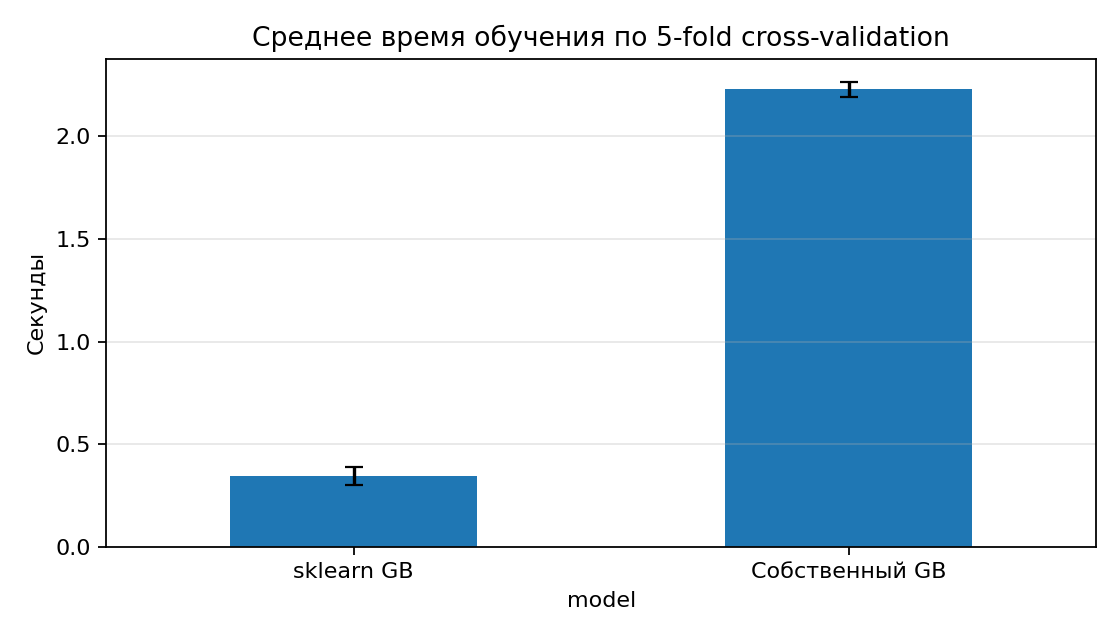
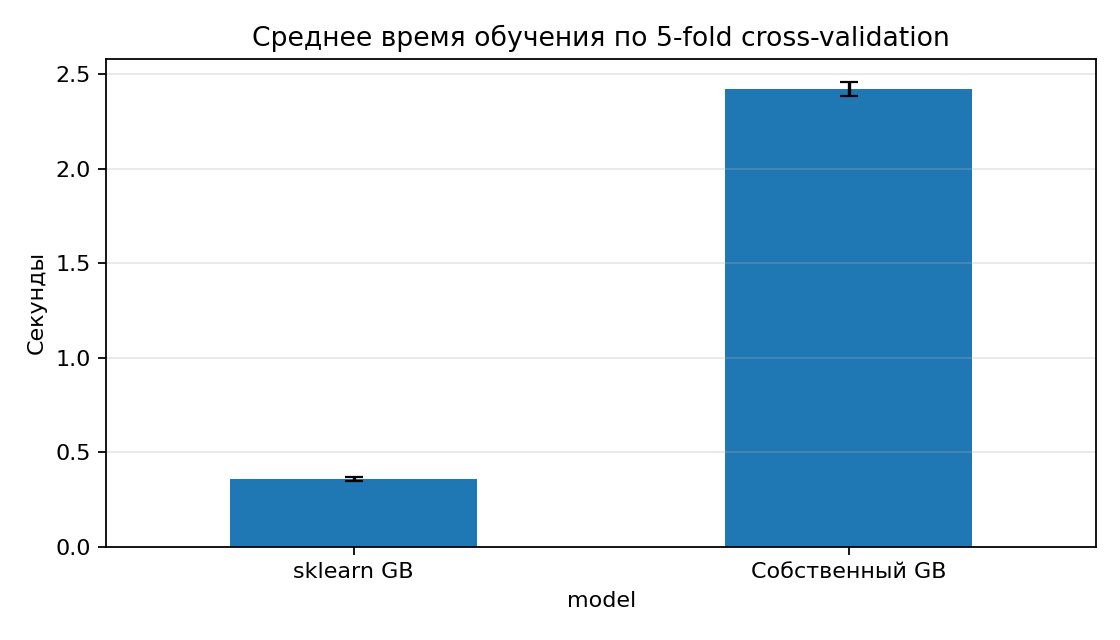
Updated lab3

diff --git a/students/grechukha-gv/lab3/source/main.py b/students/grechukha-gv/lab3/source/main.py
@@ -193,6 +193,71 @@ def plot_feature_importance(model: GradientBoostingBinaryClassifier, feature_nam
     plt.close()
 
 
+def format_metric(value: float, std: float | None = None) -> str:
+    if std is None:
+        return f"{value:.4f}"
+    return f"{value:.4f} ± {std:.4f}"
+
+
+def format_time(value: float, std: float | None = None) -> str:
+    if std is None:
+        return f"{value:.3f}"
+    return f"{value:.3f} ± {std:.3f}"
+
+
+def build_cv_summary_table(cv_summary: pd.DataFrame) -> pd.DataFrame:
+    rows: list[dict[str, str]] = []
+    for model_name in ("Собственный GB", "sklearn GB"):
+        row = cv_summary.loc[model_name]
+        rows.append(
+            {
+                "Модель": model_name,
+                "Accuracy": format_metric(row[("accuracy", "mean")], row[("accuracy", "std")]),
+                "Precision": format_metric(row[("precision", "mean")], row[("precision", "std")]),
+                "Recall": format_metric(row[("recall", "mean")], row[("recall", "std")]),
+                "F1": format_metric(row[("f1", "mean")], row[("f1", "std")]),
+                "Fit time, sec": format_time(row[("fit_time_sec", "mean")], row[("fit_time_sec", "std")]),
+            }
+        )
+    return pd.DataFrame(rows)
+
+
+def build_holdout_table(fitted_models: dict[str, dict]) -> pd.DataFrame:
+    rows: list[dict[str, str]] = []
+    for model_name in ("Собственный GB", "sklearn GB"):
+        result = fitted_models[model_name]
+        metrics = result["metrics"]
+        rows.append(
+            {
+                "Модель": model_name,
+                "Accuracy": format_metric(metrics["accuracy"]),
+                "Precision": format_metric(metrics["precision"]),
+                "Recall": format_metric(metrics["recall"]),
+                "F1": format_metric(metrics["f1"]),
+                "Fit time, sec": format_time(result["fit_time_sec"]),
+            }
+        )
+    return pd.DataFrame(rows)
+
+
+def print_console_summary(
+    x: pd.DataFrame,
+    y: np.ndarray,
+    cv_summary: pd.DataFrame,
+    fitted_models: dict[str, dict],
+) -> None:
+    print("Сводка запуска lab3")
+    print(f"Датасет: Breast Cancer Wisconsin, объектов: {x.shape[0]}, признаков: {x.shape[1]}.")
+    print(f"Баланс классов: malignant=0: {int(np.sum(y == 0))}, benign=1: {int(np.sum(y == 1))}.")
+    print()
+    print("Cross-validation, mean ± std")
+    print(build_cv_summary_table(cv_summary).to_string(index=False))
+    print()
+    print("Holdout")
+    print(build_holdout_table(fitted_models).to_string(index=False))
+    print()
+
+
 def save_run_summary(
     x: pd.DataFrame,
     y: np.ndarray,
@@ -211,38 +276,30 @@ def save_run_summary(
         "|--------|----------|-----------|--------|----|---------------|",
     ]
 
-    for model_name in cv_summary.index:
-        row = cv_summary.loc[model_name]
+    for _, row in build_cv_summary_table(cv_summary).iterrows():
         lines.append(
-            "| {model} | {accuracy:.4f} ± {accuracy_std:.4f} | {precision:.4f} ± {precision_std:.4f} | "
-            "{recall:.4f} ± {recall_std:.4f} | {f1:.4f} ± {f1_std:.4f} | {time:.3f} ± {time_std:.3f} |".format(
-                model=model_name,
-                accuracy=row[("accuracy", "mean")],
-                accuracy_std=row[("accuracy", "std")],
-                precision=row[("precision", "mean")],
-                precision_std=row[("precision", "std")],
-                recall=row[("recall", "mean")],
-                recall_std=row[("recall", "std")],
-                f1=row[("f1", "mean")],
-                f1_std=row[("f1", "std")],
-                time=row[("fit_time_sec", "mean")],
-                time_std=row[("fit_time_sec", "std")],
+            "| {model} | {accuracy} | {precision} | {recall} | {f1} | {time} |".format(
+                model=row["Модель"],
+                accuracy=row["Accuracy"],
+                precision=row["Precision"],
+                recall=row["Recall"],
+                f1=row["F1"],
+                time=row["Fit time, sec"],
             )
         )
 
     lines.extend(["", "## Holdout", ""])
     lines.extend(["| Модель | Accuracy | Precision | Recall | F1 | Fit time, sec |", "|--------|----------|-----------|--------|----|---------------|"])
 
-    for model_name, result in fitted_models.items():
-        metrics = result["metrics"]
+    for _, row in build_holdout_table(fitted_models).iterrows():
         lines.append(
-            "| {model} | {accuracy:.4f} | {precision:.4f} | {recall:.4f} | {f1:.4f} | {time:.3f} |".format(
-                model=model_name,
-                accuracy=metrics["accuracy"],
-                precision=metrics["precision"],
-                recall=metrics["recall"],
-                f1=metrics["f1"],
-                time=result["fit_time_sec"],
+            "| {model} | {accuracy} | {precision} | {recall} | {f1} | {time} |".format(
+                model=row["Модель"],
+                accuracy=row["Accuracy"],
+                precision=row["Precision"],
+                recall=row["Recall"],
+                f1=row["F1"],
+                time=row["Fit time, sec"],
             )
         )
 
@@ -261,7 +318,7 @@ def main() -> None:
     plot_feature_importance(fitted_models["Собственный GB"]["model"], list(x.columns))
     save_run_summary(x, y, cv_summary, fitted_models)
 
-    print((ARTIFACTS_DIR / "run_summary.md").read_text(encoding="utf-8"))
+    print_console_summary(x, y, cv_summary, fitted_models)
 
 
 if __name__ == "__main__":

diff --git a/students/grechukha-gv/lab3/source/gradient_boosting.py b/students/grechukha-gv/lab3/source/gradient_boosting.py
@@ -17,7 +17,7 @@ class _TreeNode:
 
 
 class RegressionTree:
-    """Small CART-style regression tree for squared-error splits."""
+    """Small CART-style regression tree for squared-error splits"""
 
     def __init__(
         self,
@@ -159,16 +159,16 @@ class RegressionTree:
 
 
 class GradientBoostingBinaryClassifier:
-    """Gradient boosting for binary classification with logistic loss."""
+    """Gradient boosting for binary classification with logistic loss"""
 
     def __init__(
         self,
-        n_estimators: int = 80,
-        learning_rate: float = 0.1,
+        n_estimators: int = 100,
+        learning_rate: float = 0.15,
         max_depth: int = 3,
-        min_samples_split: int = 2,
+        min_samples_split: int = 8,
         min_samples_leaf: int = 5,
-        max_thresholds: int = 64,
+        max_thresholds: int = 48,
     ) -> None:
         self.n_estimators = n_estimators
         self.learning_rate = learning_rate

diff --git a/students/grechukha-gv/lab3/README.md b/students/grechukha-gv/lab3/README.md
@@ -1,13 +1,23 @@
 # Лабораторная работа №3. Градиентный бустинг
 
+В рамках данной лабораторной работы предстоит реализовать алгоритм градиентного бустинга и сравнить его с эталонной реализацией из библиотеки `scikit-learn`.
+
 ## Задание
 
-1. Выбрать датасет для анализа.
+1. Выбрать датасет для анализа, например, на [kaggle](https://www.kaggle.com/datasets).
 2. Реализовать алгоритм градиентного бустинга.
 3. Обучить модель на выбранном датасете.
 4. Оценить качество модели с использованием кросс-валидации.
 5. Замерить время обучения модели.
-6. Сравнить качество и время обучения с эталонной реализацией из `scikit-learn`.
+6. Сравнить результаты с эталонной реализацией из библиотеки [scikit-learn](https://scikit-learn.org/stable/):
+  - точность модели;
+  - время обучения.
+7. Подготовить отчет, включающий:
+  - описание алгоритма градиентного бустинга;
+  - описание датасета;
+  - результаты экспериментов;
+  - сравнение с эталонной реализацией;
+  - выводы.
 
 ## Датасет
 
@@ -17,8 +27,6 @@
 - Признаки: 30 числовых характеристик клеточных ядер.
 - Целевой признак: `0` — malignant, `1` — benign.
 - Баланс классов: malignant — 212, benign — 357.
-
-Датасет загружается во время выполнения скрипта, поэтому в репозитории не хранится отдельный файл с данными.
 
 ## Структура проекта
 
@@ -47,61 +55,37 @@ lab3/
 
 1. Начальное приближение задаётся логитом доли положительного класса:
 
-$$
-F_0 = \log \frac{p}{1 - p}
-$$
-
+$$F_0 = \log \frac{p}{1 - p}$$
 2. На каждой итерации считаются вероятности:
-
-$$
-\hat{p}_i = \sigma(F(x_i))
-$$
-
+$$\hat{p}_i = \sigma(F(x_i))$$
 3. Псевдоостатки для логистической функции потерь:
-
-$$
-r_i = y_i - \hat{p}_i
-$$
-
+$$r_i = y_i - \hat{p}_i$$
 4. На псевдоостатках обучается самописное CART-подобное регрессионное дерево с критерием уменьшения суммы квадратов ошибок.
 5. Композиция обновляется с learning rate:
-
-$$
-F_m(x) = F_{m-1}(x) + \eta h_m(x)
-$$
-
+$$F_m(x) = F_{m-1}(x) + \eta h_m(x)$$
 6. Класс выбирается по порогу `0.5` для вероятности положительного класса.
 
 Эталонная модель — `sklearn.ensemble.GradientBoostingClassifier` с теми же основными гиперпараметрами: `n_estimators=100`, `learning_rate=0.15`, `max_depth=3`, `min_samples_split=8`, `min_samples_leaf=5`.
-
-## Запуск
-
-```sh
-.venv/bin/python students/grechukha-gv/lab3/source/main.py
-```
-
-Если окружение ещё не создано:
-
-```sh
-python3 -m venv .venv
-.venv/bin/python -m pip install -r students/grechukha-gv/requirements.txt
-```
 
 ## Результаты
 
 Оценка проводилась с помощью стратифицированной 5-fold cross-validation (`random_state=42`). Время — время обучения модели на одном фолде.
 
-| Модель | Accuracy | Precision | Recall | F1 | Fit time, sec |
-|--------|----------|-----------|--------|----|---------------|
-| sklearn GB | 0.9631 ± 0.0209 | 0.9600 ± 0.0321 | 0.9832 ± 0.0182 | 0.9711 ± 0.0161 | 0.344 ± 0.043 |
-| Собственный GB | 0.9420 ± 0.0281 | 0.9472 ± 0.0428 | 0.9635 ± 0.0367 | 0.9543 ± 0.0218 | 2.228 ± 0.036 |
+
+| Модель         | Accuracy        | Precision       | Recall          | F1              | Fit time, sec |
+| -------------- | --------------- | --------------- | --------------- | --------------- | ------------- |
+| Собственный GB | 0.9420 ± 0.0281 | 0.9472 ± 0.0428 | 0.9635 ± 0.0367 | 0.9543 ± 0.0218 | 2.422 ± 0.037 |
+| sklearn GB     | 0.9631 ± 0.0209 | 0.9600 ± 0.0321 | 0.9832 ± 0.0182 | 0.9711 ± 0.0161 | 0.359 ± 0.009 |
+
 
 На holdout-разбиении 80/20:
 
-| Модель | Accuracy | Precision | Recall | F1 | Fit time, sec |
-|--------|----------|-----------|--------|----|---------------|
-| Собственный GB | 0.9474 | 0.9459 | 0.9722 | 0.9589 | 2.271 |
-| sklearn GB | 0.9649 | 0.9474 | 1.0000 | 0.9730 | 0.321 |
+
+| Модель         | Accuracy | Precision | Recall | F1     | Fit time, sec |
+| -------------- | -------- | --------- | ------ | ------ | ------------- |
+| Собственный GB | 0.9474   | 0.9459    | 0.9722 | 0.9589 | 2.342         |
+| sklearn GB     | 0.9649   | 0.9474    | 1.0000 | 0.9730 | 0.348         |
+
 
 ![Сравнение метрик](artifacts/metrics_comparison.png)
 
@@ -121,12 +105,13 @@ python3 -m venv .venv
 
 ## Анализ результатов
 
-Собственная реализация показывает качество, близкое к эталонной: средний F1 ниже примерно на `0.017`, accuracy ниже примерно на `0.021`. Основной разрыв ожидаем: `sklearn` использует более оптимизированную и зрелую реализацию деревьев и бустинга, а собственная модель намеренно ограничена понятной реализацией CART-деревьев над псевдоостатками.
+Собственная реализация показывает качество, близкое к эталонной. Основной разрыв ожидаем: `sklearn` использует более оптимизированную и зрелую реализацию деревьев и бустинга, а собственная модель намеренно ограничена понятной реализацией CART-деревьев над псевдоостатками.
 
-По времени обучения собственная реализация медленнее примерно в 7 раз. Узкое место — построение большого числа самописных деревьев и перебор порогов в Python/NumPy, тогда как эталонная модель использует оптимизированный код библиотеки.
+По времени обучения собственная реализация оказалась медленнее. Узкое место — построение большого числа самописных деревьев и перебор порогов в Python/NumPy, тогда как эталонная модель использует оптимизированный код библиотеки.
 
 ## Выводы
 
 1. Реализован градиентный бустинг для бинарной классификации с логистической функцией потерь и самописными регрессионными деревьями.
 2. Модель обучена на датасете Breast Cancer Wisconsin и оценена с помощью 5-fold cross-validation.
 3. Собственная реализация уступает `sklearn` по качеству и времени, но демонстрирует сопоставимое качество классификации и корректную работу алгоритма бустинга.
+